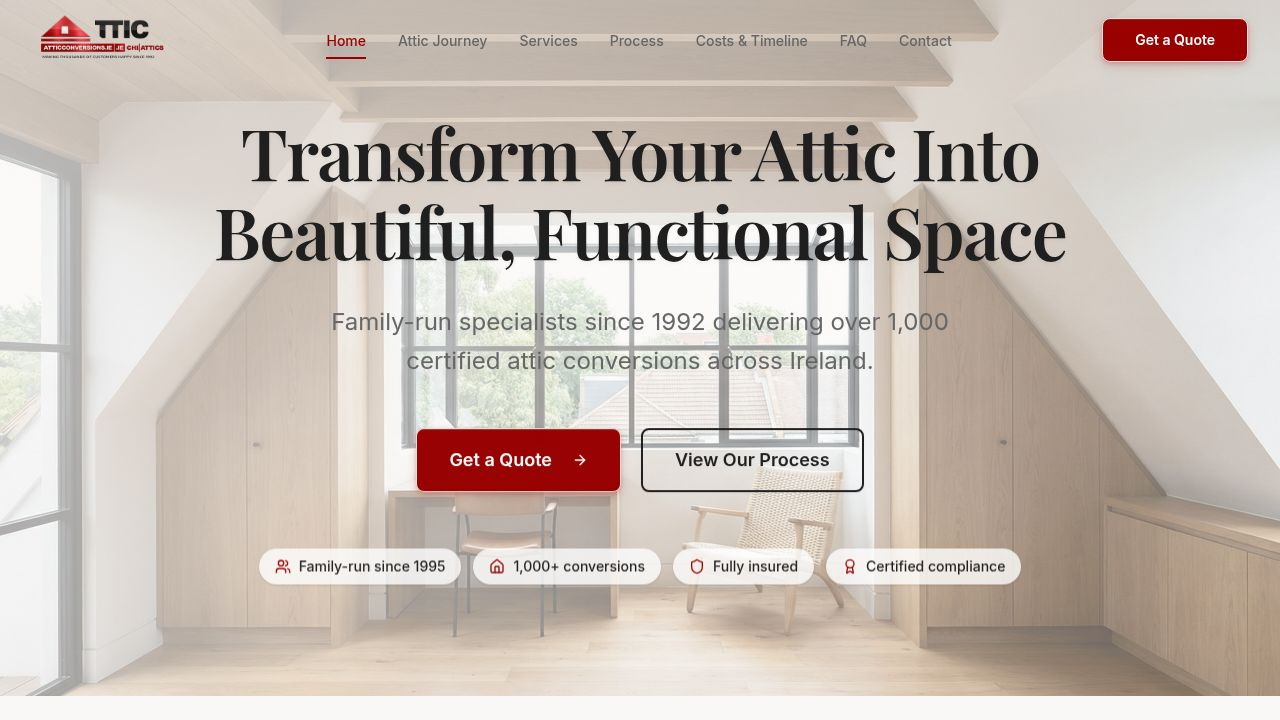
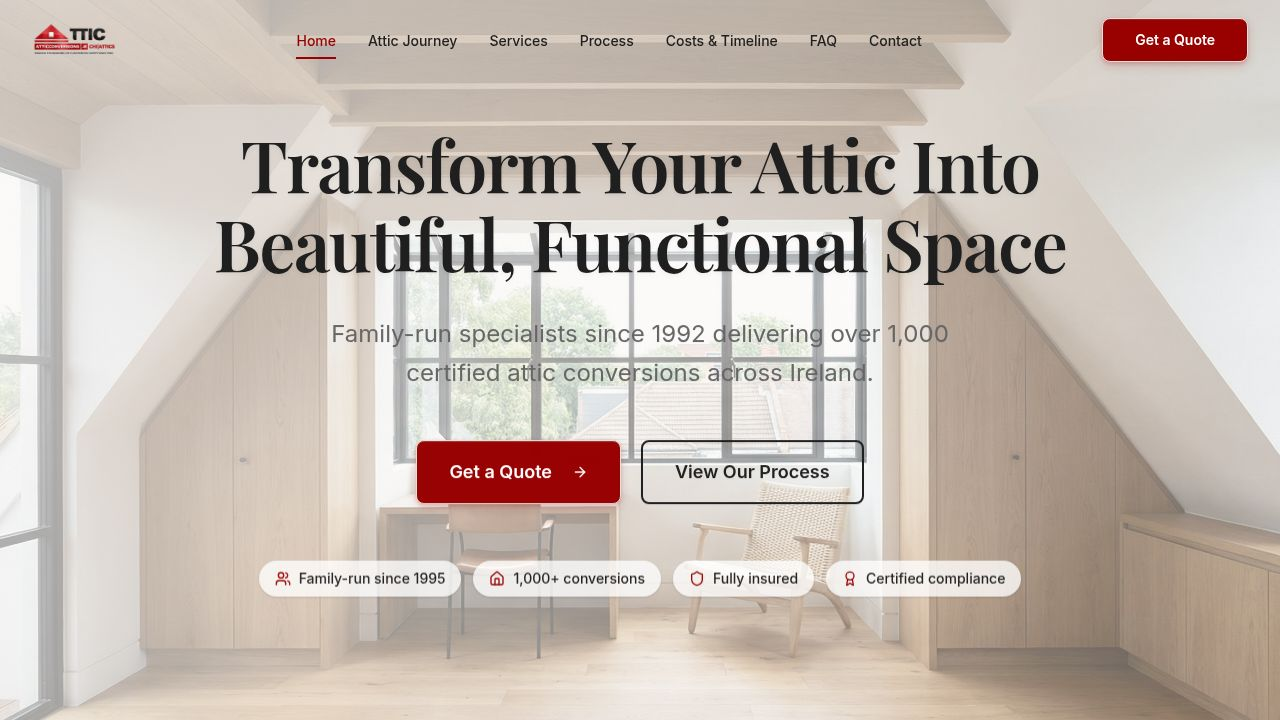
Improve website header, hero section, and branding visuals
Refactors the header to include a transparent state with a lower scroll threshold, applies a translucent backdrop-blur to the header on scroll, and adjusts the hero section's minimum height to full screen. Updates the logo source and reduces its size in the header. Modifies navigation link styling for better contrast in transparent and scrolled states, and introduces new CSS classes for light navigation links.

Replit-Commit-Author: Agent
Replit-Commit-Session-Id: aed6a521-198d-4524-a9a9-e7566385f5c5
Replit-Commit-Checkpoint-Type: intermediate_checkpoint
Replit-Commit-Event-Id: 6fae0c63-7ae2-49d9-a316-e61df6d75441
Replit-Commit-Screenshot-Url: https://storage.googleapis.com/screenshot-production-us-central1/bf78fcd8-1a0f-42fc-83bd-46225459f585/aed6a521-198d-4524-a9a9-e7566385f5c5/Vi0KNMM
Replit-Helium-Checkpoint-Created: true

diff --git a/client/src/components/layout/Header.tsx b/client/src/components/layout/Header.tsx
@@ -11,17 +11,18 @@ export function Header() {
 
   useEffect(() => {
     const handleScroll = () => {
-      setIsScrolled(window.scrollY > 20);
+      setIsScrolled(window.scrollY > 10);
     };
-    window.addEventListener("scroll", handleScroll);
+    window.addEventListener("scroll", handleScroll, { passive: true });
+    handleScroll();
     return () => window.removeEventListener("scroll", handleScroll);
   }, []);
 
   return (
     <>
       <header
-        className={`fixed top-0 left-0 right-0 z-50 transition-all duration-300 ${
-          isScrolled || isOpen ? "bg-white shadow-sm" : "bg-transparent"
+        className={`fixed top-0 left-0 right-0 z-50 transition-all duration-200 ease-out ${
+          isScrolled || isOpen ? "bg-white/95 backdrop-blur-sm shadow-sm" : "bg-transparent"
         }`}
       >
         <div className="container-wide">
@@ -30,7 +31,7 @@ export function Header() {
               <img 
                 src="/attached_assets/ChatGPT_Image_Jan_10,_2026,_04_55_11_PM_1768064127781.png" 
                 alt="Attic Conversions" 
-                className="h-24 w-auto object-contain"
+                className="h-14 w-auto object-contain"
               />
             </Link>
 
@@ -39,7 +40,7 @@ export function Header() {
                 <Link
                   key={item.href}
                   href={item.href}
-                  className={`nav-link ${location === item.href ? "active" : ""}`}
+                  className={`nav-link ${location === item.href ? "active" : ""} ${!isScrolled && !isOpen ? "nav-link-light" : ""}`}
                   data-testid={`nav-${item.label.toLowerCase().replace(/\s+/g, '-')}`}
                 >
                   {item.label}

diff --git a/client/src/components/home/Hero.tsx b/client/src/components/home/Hero.tsx
@@ -4,7 +4,7 @@ import { Button } from "@/components/ui/button";
 
 export function Hero() {
   return (
-    <section className="relative min-h-[95vh] flex items-center overflow-hidden">
+    <section className="relative min-h-screen flex items-center overflow-hidden">
       <div
         className="absolute inset-0 bg-cover bg-center"
         style={{

diff --git a/client/src/index.css b/client/src/index.css
@@ -275,6 +275,14 @@
   transform: scaleX(1);
 }
 
+.nav-link-light {
+  color: #1F1F1F;
+}
+
+.nav-link-light:hover {
+  color: #990101;
+}
+
 .section-padding {
   @apply py-20 md:py-28;
 }
